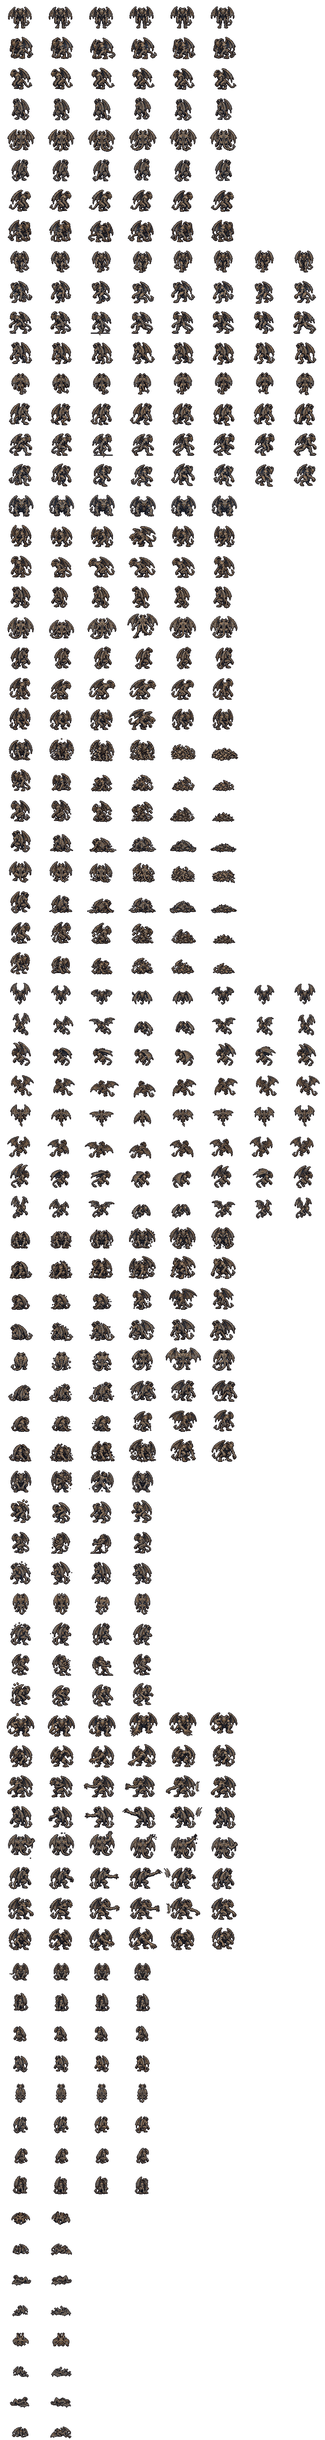
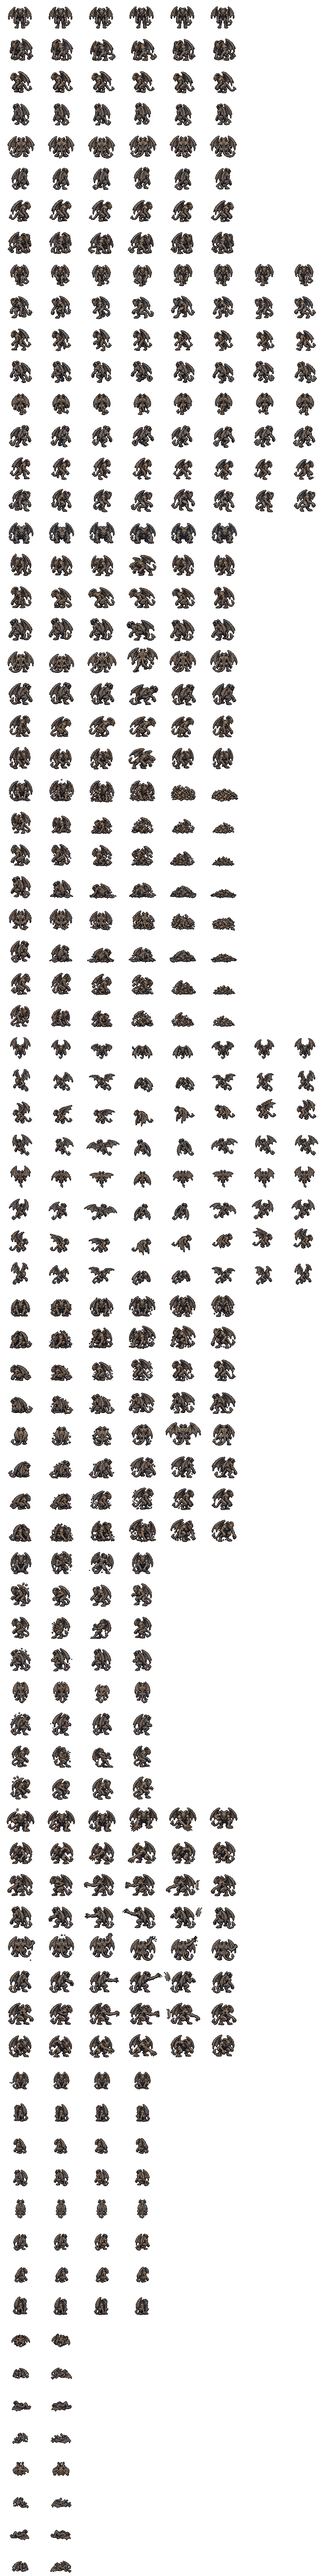
The gargoyle's repaired rows from the art desk's ART-117: NE Walk, Bite and Fly, E Wake, Walk and Fly (SE Walk passed over)
The art desk's ART-117 (Griz: "fresh in fresh for the cutter"), seven pages repairing ART-18, PARTIAL by its own word; sorted out of Fresh by
deep16/_src/art-desk/sort-delivery.py into _src/gargoyle/ART-117/ (every sha256 against its manifest). A row taken only where it mends what the
grid showed:
- NE Bite: it lunges at NE on frame 4; ART-18's turned to profile through frames 2 to 5.
- NE Fly: the rear diagonal held through the wingbeat.
- E Wake: it ends standing in the E profile, as E Idle; ART-18's ended facing out with its wings spread.
- E Walk: one profile, steadier steps, and no stray printed rule under frame 3.
- E Fly: the downstroke reads.
- NE Walk: its half-strides differ more (frames 1 to 5 ... 4 to 8 by the feet's pixels: 189 149 257 232 against ART-18's 126 107 202 92).
- SE Walk passed over: its half-strides differ less than ART-18's (the art desk's own "visibly unresolved").
SW, W and NW follow as mirrors.

tools/gargoyle-sheet.py: ART-117's pages by spec (NEW117: each digit and title boxed on its own, the numbers close under the feet), and the sheet
built twice -- on ART-18 alone, then with the adopted pages -- with only ADOPT's rows taken from the second, since a new page moves its view's
shared measures (the Statue by its Wake 1, a Fly page by its view's median). The cell 72 -> 76 tall, the anchor where it was: the new E Fly's
[…]

diff --git a/deep16/data/sprites.js b/deep16/data/sprites.js
@@ -4259,9 +4259,9 @@
 "source": "drawn by the art desk (ART-09 FINAL SE and NE, 10-10; ART-52 REVIEW S, E and N, 10-18; ART-52 RUN REVIEW S and N walks, 10-27), cut by tools/townsfolk-sheet.py through tools/artdesk.py (10-27)"
 },
 "gargoyle_p1": {
-"image": "art/gargoyle_p1.png?v=439307fcde",
+"image": "art/gargoyle_p1.png?v=42b5a4b095",
 "fw": 96,
-"fh": 72,
+"fh": 76,
 "ax": 48,
 "ay": 67,
 "top": 52,
@@ -4269,95 +4269,95 @@
 "idle": {
 "y": 0,
 "fw": 96,
-"fh": 72,
+"fh": 76,
 "ax": 48,
 "ay": 67,
 "frames": 6,
 "fps": 6
 },
 "walk": {
-"y": 576,
+"y": 608,
 "fw": 96,
-"fh": 72,
+"fh": 76,
 "ax": 48,
 "ay": 67,
 "frames": 8,
 "fps": 10
 },
 "attack": {
-"y": 1152,
+"y": 1216,
 "fw": 96,
-"fh": 72,
+"fh": 76,
 "ax": 48,
 "ay": 67,
 "frames": 6,
 "fps": 10
 },
 "hurt": {
-"y": 1728,
+"y": 1824,
 "fw": 96,
-"fh": 72,
+"fh": 76,
 "ax": 48,
 "ay": 67,
 "frames": 6,
 "fps": 8
 },
 "fly": {
-"y": 2304,
+"y": 2432,
 "fw": 96,
-"fh": 72,
+"fh": 76,
 "ax": 48,
 "ay": 67,
 "frames": 8,
 "fps": 10
 },
 "reveal": {
-"y": 2880,
+"y": 3040,
 "fw": 96,
-"fh": 72,
+"fh": 76,
 "ax": 48,
 "ay": 67,
 "frames": 6,
 "fps": 8
 },
 "flinch": {
-"y": 3456,
+"y": 3648,
 "fw": 96,
-"fh": 72,
+"fh": 76,
 "ax": 48,
 "ay": 67,
 "frames": 4,
 "fps": 10
 },
 "claw": {
-"y": 4032,
+"y": 4256,
 "fw": 96,
-"fh": 72,
+"fh": 76,
 "ax": 48,
 "ay": 67,
 "frames": 6,
 "fps": 10
 },
 "still": {
-"y": 4608,
+"y": 4864,
 "fw": 96,
-"fh": 72,
+"fh": 76,
 "ax": 48,
 "ay": 67,
 "frames": 4,
 "fps": 4
 },
 "prone": {
-"y": 5184,
+"y": 5472,
 "fw": 96,
-"fh": 72,
+"fh": 76,
 "ax": 48,
 "ay": 67,
 "frames": 2,
 "fps": 6
 }
 },
-"source": "drawn by the art desk (ART-18 FINAL, all five views, 10-21), cut by tools/gargoyle-sheet.py through tools/artdesk.py (10-22)"
+"source": "drawn by the art desk (ART-18 FINAL, all five views, 10-21; its ART-117 repairs for E fly, E reveal, E walk, NE attack, NE fly, NE walk, 10-28), cut by tools/gargoyle-sheet.py through tools/artdesk.py (10-22)"
 },
 "giantbat_p1": {
 "image": "art/giantbat_p1.png?v=5fa2b4c149",

diff --git a/deep16/index.html b/deep16/index.html
@@ -77,7 +77,7 @@
 <script src="js/art.js?v=e1ce4cf012"></script>
 <script src="data/cavern.js?v=647c1a184a"></script>
 <script src="data/maps.js?v=971b4fe9e6"></script>
-<script src="data/sprites.js?v=5e09fb31f9"></script>
+<script src="data/sprites.js?v=1b71aefc6c"></script>
 <script src="js/sprites.js?v=132505c283"></script>
 <script src="js/save.js?v=1191d6f29a"></script>
 <script src="data/spells.js?v=b819b6e987"></script>

diff --git a/tools/gargoyle-sheet.py b/tools/gargoyle-sheet.py
@@ -19,6 +19,8 @@ Cut, scaled and placed by tools/artdesk.py. Its size (the seat's call): 52 px fr
 turnaround stands even (front 406, sides 416, back 412 px, one page). A later page by its first frame against its view's Idle 1, a Wake page
 by its Wake 6 (standing), the Statue page by its Statue 1 at the height of the Wake page's Wake 1 (the same crouch), a Prone page by its Prone 1
 at its own view's Fall 6. Two passes: the second tones every page per channel to its own view's first-pass idle, the others to the E's.
+ART-117 (10-28, the art desk's repairs of seven pages, PARTIAL): six rows taken (ADOPT below), built in a second pass and laid over the first,
+every other row the first pass's byte for byte; SE Walk passed over.
 """
 import os, sys, json
 import importlib.util
@@ -33,7 +35,7 @@ def _load(name):
 pix, AD = _load('pixelate'), _load('artdesk')
 
 NAME = 'gargoyle_p1'
-FW, FH, AX, AY = 96, 72, 48, 67             # (the wings and claws 47 px each side, a raised wing 65 up; its Fly within, 10-28)
+FW, FH, AX, AY = 96, 76, 48, 67             # (the wings and claws 47 px each side, a raised wing 65 up; its Fly within, 10-28; 76 tall since ART-117's E Fly, whose downstroke drops 7 below the anchor, the anchor where it was)
 STAND = {'side': 52, 'S': 52, 'N': 52}
 
 def R(*rows):
@@ -145,6 +147,38 @@ for _L, (_f, _w, _t, ((_b1, _s1, _x1), (_b2, _s2, _x2))) in FLYP.items():
 HEADERS = {'H4P7': (0, 0, 4000, 120), 'H4P8': (0, 0, 4000, 240), 'H4P10': (0, 0, 4000, 250), 'H5P3': (0, 0, 4000, 80)}
 for _L, _b in HEADERS.items():
     PAGES[_L]['text'] = PAGES[_L]['text'] + [_b]
+# ART-117 (10-28, the fourth cutter seat, on Griz's "fresh in fresh for the cutter"): the art desk's repairs of seven ART-18 pages, in
+# _src/gargoyle/ART-117/, each keyed by the page it would replace (its MANIFEST.json's replaces_parent_filename). PARTIAL by its own word (SE and
+# NE Walk "visibly unresolved", E Walk's phase OPEN): a row is taken only where it mends what the grid shows (ADOPT). Each page two bands, the
+# numbers printed close under the feet: every digit boxed on its own (`own_strip`), the title boxed
+def _n117(file, W, title, *bands):
+    """a page of ART-117: bands (row, (top, bottom) of the band, (top, bottom) of its digits, [(x0, x1) a digit])"""
+    text, rows, xs = list(title), [], {}
+    for r, (b0, b1), (d0, d1), ds in bands:
+        text += [(x0 - 5, d0 - 5, x1 + 5, d1 + 5) for x0, x1 in ds]
+        rows.append((r, (0, b0, W, b1), (d0, b1), len(ds))); xs[r] = [(x0 + x1) // 2 for x0, x1 in ds]
+    return dict(dir='ART-117', file=file, W=W, text=text, rows=rows, xs=xs, own_strip=[b[0] for b in bands])
+NEW117 = {
+  'H1P5': _n117('ART-117_HEAD-1_PAGE-1.png', 1536, [(630, 20, 905, 82)], ('walk', (0, 512), (480, 508), [(153, 168), (557, 575), (942, 959), (1317, 1338)]),
+                ('walk_b', (513, 1024), (916, 945), [(153, 171), (555, 573), (942, 960), (1319, 1337)])),
+  'H2P4': _n117('ART-117_HEAD-2_PAGE-1.png', 1774, [(10, 8, 240, 58)], ('walk', (0, 433), (400, 429), [(271, 284), (674, 692), (1081, 1098), (1504, 1522)]),
+                ('walk_b', (434, 887), (827, 853), [(269, 285), (674, 692), (1081, 1098), (1514, 1531)])),
+  'H2P6': _n117('ART-117_HEAD-2_PAGE-2.png', 1774, [(790, 818, 975, 862)], ('attack', (0, 408), (377, 404), [(358, 373), (871, 890), (1388, 1407)]),
+                ('attack_b', (409, 887), (772, 799), [(350, 370), (871, 890), (1388, 1407)])),
+  'H2P5': _n117('ART-117_HEAD-2_PAGE-3.png', 1774, [], ('fly', (0, 431), (404, 427), [(219, 234), (629, 646), (1091, 1107), (1540, 1557)]),
+                ('fly_b', (432, 887), (819, 843), [(211, 227), (626, 642), (1086, 1102), (1540, 1556)])),
+  'H4P2': _n117('ART-117_HEAD-4_PAGE-1.png', 1536, [(645, 925, 895, 985)], ('reveal', (0, 445), (410, 441), [(258, 275), (743, 764), (1258, 1280)]),
+                ('reveal_b', (446, 1024), (879, 912), [(258, 281), (743, 765), (1257, 1280)])),
+  'H4P4': _n117('ART-117_HEAD-4_PAGE-2.png', 1536, [(667, 933, 873, 988)], ('walk', (0, 489), (456, 485), [(221, 236), (581, 601), (949, 969), (1318, 1340)]),
+                ('walk_b', (490, 1024), (893, 923), [(204, 224), (575, 595), (957, 977), (1324, 1344)])),
+  'H4P5': _n117('ART-117_HEAD-4_PAGE-3.png', 1536, [(600, 935, 900, 1020)], ('fly', (0, 470), (437, 466), [(195, 208), (570, 590), (979, 999), (1325, 1346)]),
+                ('fly_b', (471, 1024), (893, 923), [(184, 204), (570, 590), (974, 995), (1333, 1354)])),
+}
+# (view, row) -> the ART-18 page whose ART-117 page plays there now; SW, W and NW follow as their mirrors. Taken: NE Bite (it lunges at NE,
+# no profile drift), NE Fly (the rear diagonal held), E Wake (it ends in the E profile, not facing out with its wings spread), E Fly (the
+# downstroke reads), E Walk (one profile, no stray printed rule under frame 3, steadier steps) and NE Walk (its half-strides differ more, 1 to 5
+# ... 4 to 8, by the feet's pixels: 189 149 257 232 against 126 107 202 92). Passed over: SE Walk (its half-strides differ less than ART-18's)
+ADOPT = {('NE', 'walk'): 'H2P4', ('NE', 'attack'): 'H2P6', ('NE', 'fly'): 'H2P5', ('E', 'reveal'): 'H4P2', ('E', 'walk'): 'H4P4', ('E', 'fly'): 'H4P5'}
 FIX = {}
 CUTS = {'H3P5': {'fly': [((752, 186), (752, 230)), ((1143, 172), (1143, 229))], 'fly_b': [((772, 625), (772, 659))]}}     # (S's Fly 2, 3 and 4 one blob, wing to wing: cut where they meet, 10-28)
 # each view's pages, its Idle's first; Fly last (H1 P6, the others' P5: cut since 10-28)
@@ -161,9 +195,9 @@ ROWS = ['idle', 'walk', 'attack', 'hurt', 'flinch', 'reveal', 'claw', 'still', '
 FPS = {'idle': 6, 'walk': 10, 'attack': 10, 'hurt': 8, 'flinch': 10, 'reveal': 8, 'claw': 10, 'still': 4, 'prone': 6, 'fly': 10}
 
 
-def targets():
+def targets(pages=PAGES):
     """the Statue page by its Statue 1 at the Wake page's Wake 1 (game size); the Prone page by its Prone 1 at its own view's Fall 6"""
-    cuts = AD.cut(ROOT, 'gargoyle', 'ART-18', PAGES, fix=FIX, cuts=CUTS)
+    cuts = AD.cut(ROOT, 'gargoyle', 'ART-18', pages, fix=FIX, cuts=CUTS)
     K = AD.scales(cuts, VIEWS, STAND, fit, stand_of=STAND_OF, idle_joined=True)
     def first(L, r):
         return (cuts[L].get(r) or cuts[L][r + '_b'])[0][0] if r in cuts[L] or r + '_b' in cuts[L] else None
@@ -216,14 +250,26 @@ def mirror(seq):
     return [np.roll(fr[:, ::-1], 1, axis=1).copy() for fr in seq]
 
 
-def build():
-    tg = targets()
+def views(pages):
+    tg = targets(pages)
     cell = (FW, FH, AX, AY)
     kw = dict(fix=FIX, cuts=CUTS, stand_of=STAND_OF, joins=JOINS, targets=tg, idle_joined=True)   # (every Idle frame to its median: N's first line raises its wings in two of three)
-    first = AD.views(ROOT, 'gargoyle', 'ART-18', PAGES, VIEWS, STAND, fit, torso_x, cell, **kw)
+    first = AD.views(ROOT, 'gargoyle', 'ART-18', pages, VIEWS, STAND, fit, torso_x, cell, **kw)
     ref = {'side': first['E']['idle'][0], 'S': first['S']['idle'][0], 'N': first['N']['idle'][0]}
-    d = AD.views(ROOT, 'gargoyle', 'ART-18', PAGES, VIEWS, STAND, fit, torso_x, cell, tone_ref=ref, **kw)
-    d = {v: dict(rows, prone=rows['prone'][::-1]) for v, rows in d.items()}
+    d = AD.views(ROOT, 'gargoyle', 'ART-18', pages, VIEWS, STAND, fit, torso_x, cell, tone_ref=ref, **kw)
+    return {v: dict(rows, prone=rows['prone'][::-1]) for v, rows in d.items()}
+
+
+def build(adopt=None):
+    """built on ART-18 alone, then again with ADOPT's ART-117 pages in place of theirs, and only ADOPT's rows taken from the second: a new
+    page moves its view's shared measures (the Statue sized by its Wake 1, a Fly page by the median of its view's other pages), so every row
+    not adopted is the first build's, byte for byte"""
+    adopt = ADOPT if adopt is None else adopt
+    d = views(PAGES)
+    if adopt:
+        d2 = views(dict(PAGES, **{L: NEW117[L] for L in set(adopt.values())}))
+        for (v, an) in adopt:
+            d[v][an] = d2[v][an]
     frames = {}
     for an in ROWS:
         frames[an] = [d['S'][an], mirror(d['SE'][an]), mirror(d['E'][an]), mirror(d['NE'][an]), d['N'][an], d['NE'][an], d['E'][an], d['SE'][an]]
@@ -239,6 +285,6 @@ if __name__ == '__main__':
     meta = json.load(open(mp))
     for an, fps in FPS.items():
         meta['anims'][an]['fps'] = fps
-    meta['source'] = 'drawn by the art desk (ART-18 FINAL, all five views, 10-21), cut by tools/gargoyle-sheet.py through tools/artdesk.py (10-22)'
+    meta['source'] = 'drawn by the art desk (ART-18 FINAL, all five views, 10-21; its ART-117 repairs for %s, 10-28), cut by tools/gargoyle-sheet.py through tools/artdesk.py (10-22)' % ', '.join('%s %s' % va for va in sorted(ADOPT))
     json.dump(meta, open(mp, 'w'), indent=1)
     print('  %s: %s' % (NAME, ', '.join('%s %d' % (an, len(frames[an][0])) for an in ROWS)))
